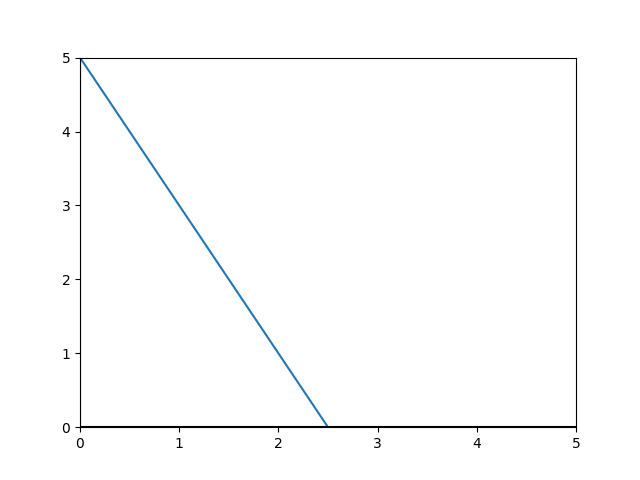
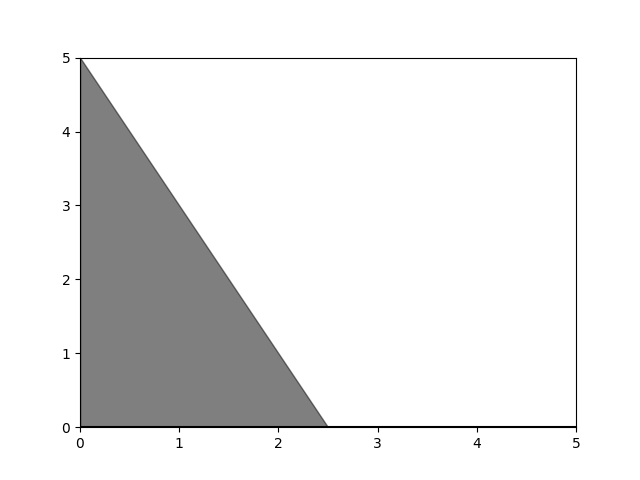
Second point created and added

Changed region(s): [[0.125, 0.125, 0.5312, 0.9062]]

diff --git a/Second.py b/Second.py
@@ -1,0 +1,32 @@
+from matplotlib import pyplot
+
+def FirstFunction(x):#First Function.
+        return (5)
+# def SecondFunction(x):#Second Function
+#     return 4*x + 1
+
+# def TinrdFunction(x):#Second Function
+#     return 4*x + 1
+if __name__ == '__main__':
+    x = range(-10, 15) #Values in X taken for the plane
+    # Graph both functions.
+    pyplot.plot(x, [FirstFunction(i) for i in x])
+    # pyplot.plot(x, [SecondFunction(i) for i in x])
+    # pyplot.plot(x, [TirdFunction(i) for i in x])
+
+        
+    # Establish the axies colors.
+    pyplot.axhline(0, color="black")
+    pyplot.axvline(0, color="black")
+
+    #Filling the area
+    pyplot.fill_between([0,10],[5,5], color='k', alpha=.5)
+
+    # Limit the axies values
+    pyplot.xlim(0, 10)
+    pyplot.ylim(0, 10)
+
+    # Save the plane as PNG.
+    pyplot.savefig("output.png")
+        
+    pyplot.show()

diff --git a/First.py b/First.py
@@ -7,7 +7,6 @@ def FirstFunction(x):#First Function.
 
 # def TinrdFunction(x):#Second Function
 #     return 4*x + 1
-
 if __name__ == '__main__':
     x = range(-10, 15) #Values in X taken for the plane
     # Graph both functions.
